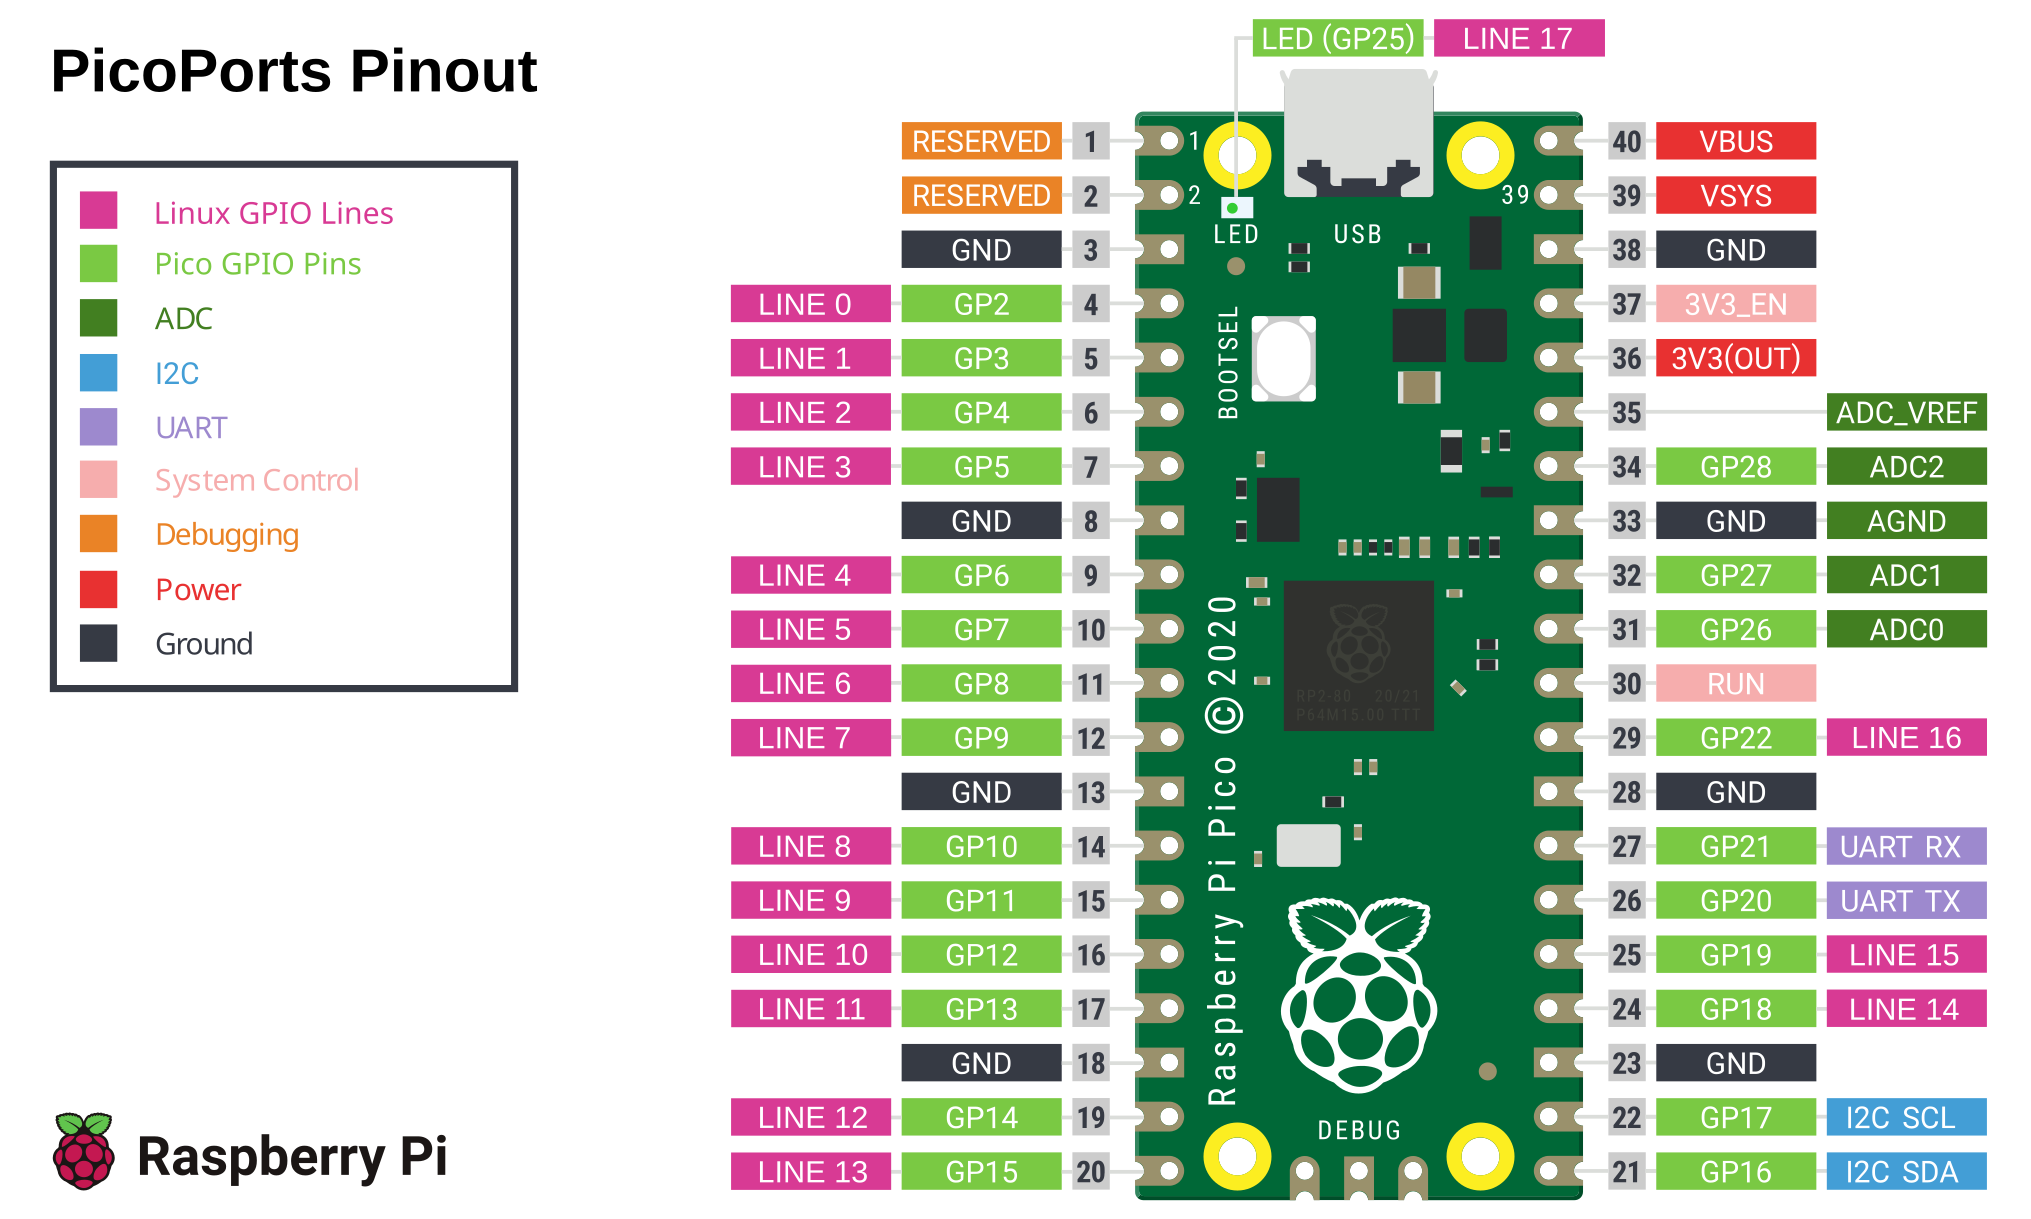
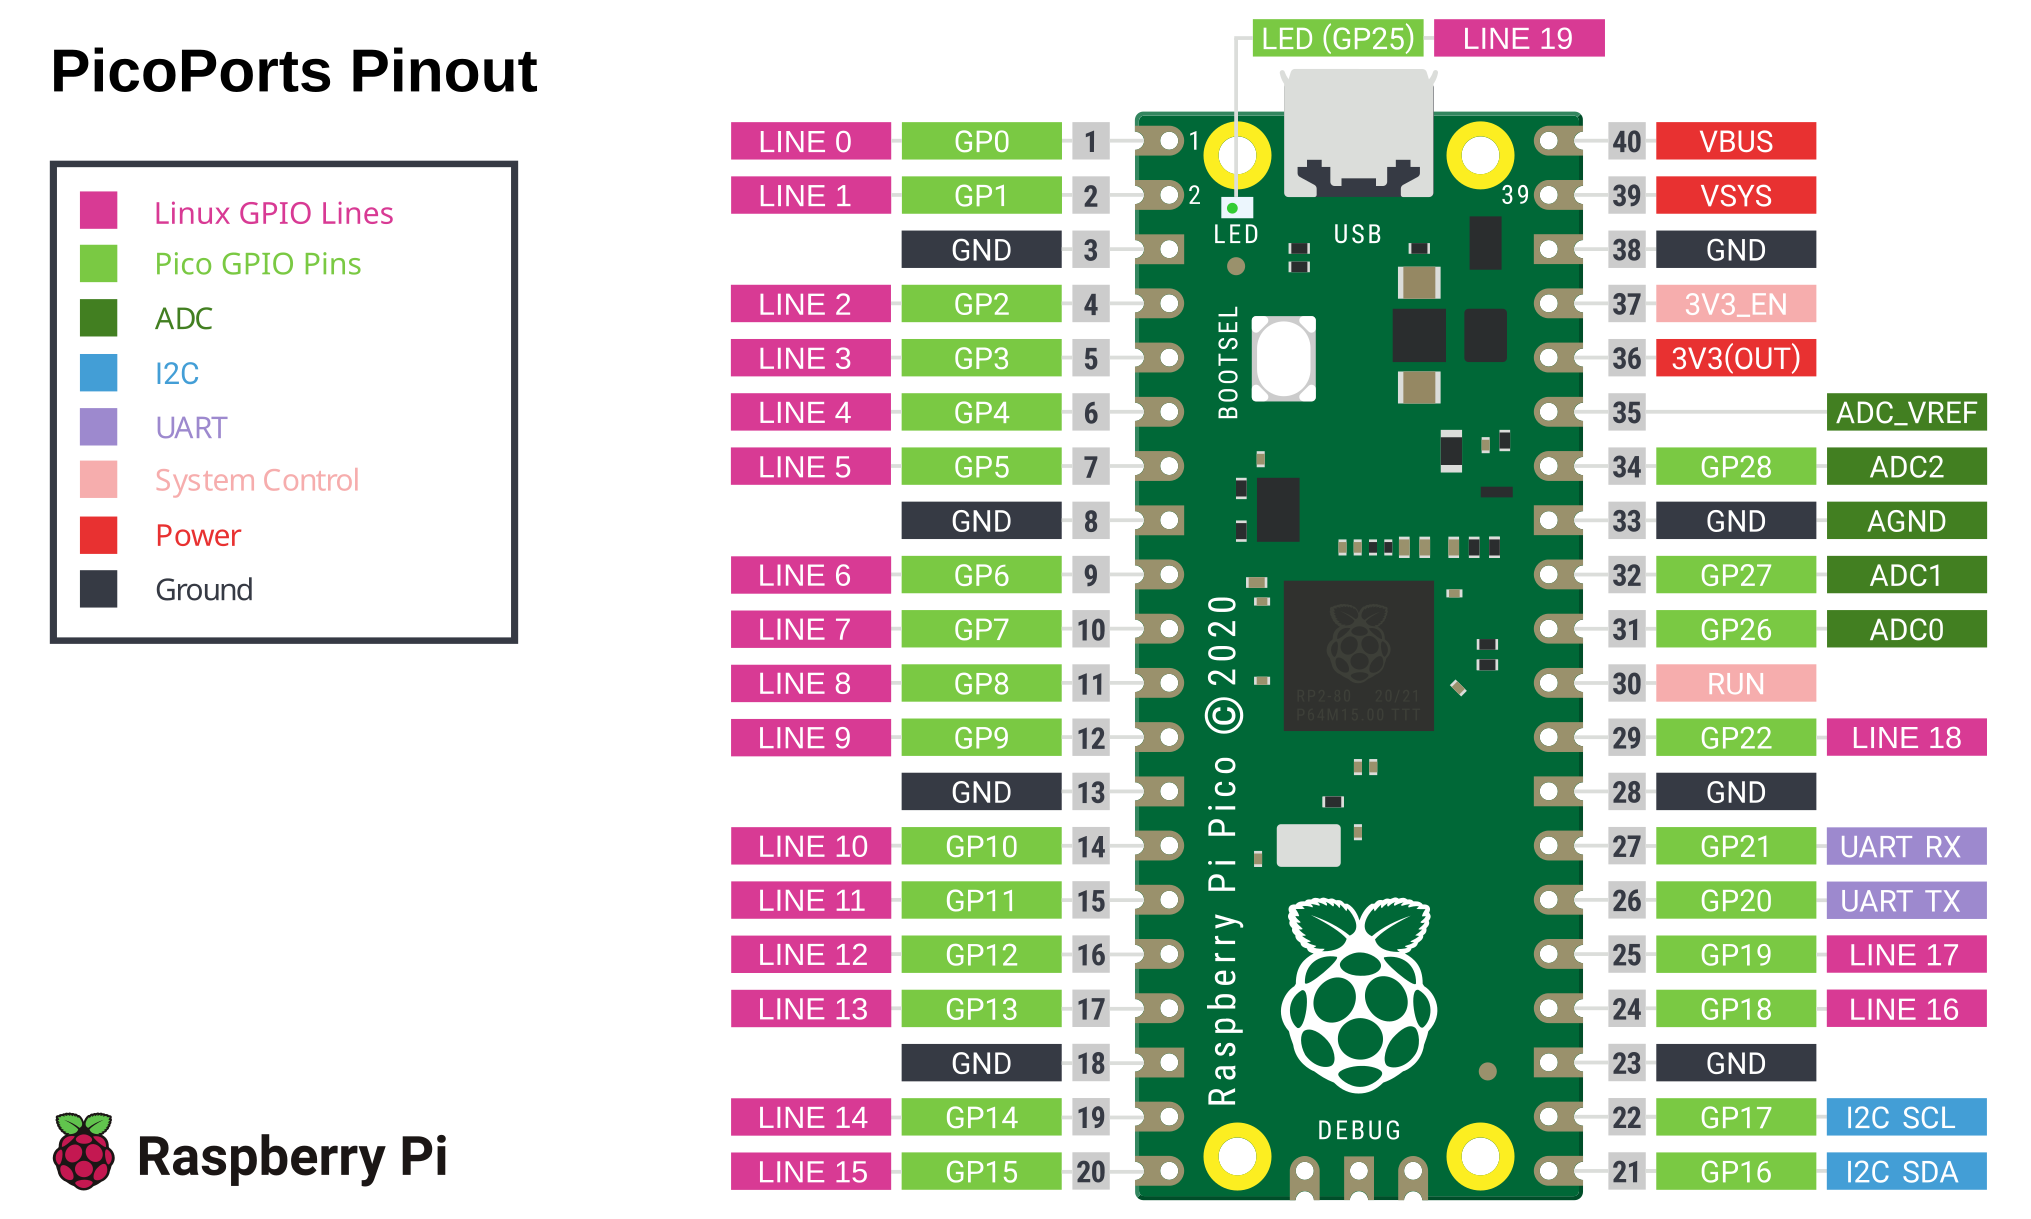
Update documentation

diff --git a/README.md b/README.md
@@ -2,6 +2,12 @@
 
 A USB-to-GPIO/ADC/I2C/UART interface based on the Raspberry Pi Pico 1.
 
+The goal of this project is to be as easy as possible to setup and use. This is achieved by
+
+- drag and drop firmware [installation](#installation)
+- no driver installation on the host
+- works with standard Linux tooling
+
 ## Usage
 
 ### Pinout
@@ -21,13 +27,13 @@ For GPIO access from the command line you can use the tools provided by the pack
 sudo apt install gpiod
 ```
 
-Example: Read GP2
+Example: Read GP0
 
 ```bash
 gpioget gpiochip0 0
 ```
 
-Example: Set GP10 high for 1 second (gpio states persist after gpioset command exits)
+Example: Set GP8 high for 1 second (gpio states persist after gpioset command exits)
 
 ```bash
 gpioset gpiochip0 8=1
@@ -38,17 +44,18 @@ gpioset gpiochip0 8=0
 Special case: Switch on Pico LED (connected to GP25)
 
 ```bash
-gpioset gpiochip0 24=1
+gpioset gpiochip0 19=1
 ```
 
-The gpiochip line numbers depend on the firmware variant:
+There are two firmware variants. On with GPIOs and interfaces and one with GPIOs only. The gpiochip
+line numbers depend on the firmware variant:
 
-| Pico pin GP_              | GP2 | GP3 | GP4 | GP5 | GP6 | GP7 | GP8 | GP9 | GP10 | GP11 | GP12 | GP13 | GP14 | GP15 | GP16 | GP17 | GP18 | GP19 | GP20 | GP21 | GP22 | GP26 | GP27 | GP28 | GP25* |
-|---------------------------|-----|-----|-----|-----|-----|-----|-----|-----|------|------|------|------|------|------|------|------|------|------|------|------|------|------|------|------|-------|
-| gpiochip line             |   0 |   1 |   2 |   3 |   4 |   5 |   6 |   7 |    8 |    9 |   10 |   11 |   12 |   13 |    - |    - |   14 |   15 |    - |    - |   16 |    - |    - |    - |    17 |
-| gpiochip line (GPIO-only) |   0 |   1 |   2 |   3 |   4 |   5 |   6 |   7 |    8 |    9 |   10 |   11 |   12 |   13 |   14 |   15 |   16 |   17 |   18 |   19 |   20 |   21 |   22 |   23 |    24 |
+| Pico pin GP_              | GP0 | GP1 | GP2 | GP3 | GP4 | GP5 | GP6 | GP7 | GP8 | GP9 | GP10 | GP11 | GP12 | GP13 | GP14 | GP15 | GP16 | GP17 | GP18 | GP19 | GP20 | GP21 | GP22 | GP26 | GP27 | GP28 | GP25* |
+|---------------------------|-----|-----|-----|-----|-----|-----|-----|-----|-----|-----|------|------|------|------|------|------|------|------|------|------|------|------|------|------|------|------|-------|
+| gpiochip line             |   0 |   1 |   2 |   3 |   4 |   5 |   6 |   7 |   8 |   9 |   10 |   11 |   12 |   13 |   14 |   15 |    - |    - |   16 |   17 |    - |    - |   18 |    - |    - |    - |    19 |
+| gpiochip line (GPIO-only) |   0 |   1 |   2 |   3 |   4 |   5 |   6 |   7 |   8 |   9 |   10 |   11 |   12 |   13 |   14 |   15 |   16 |   17 |   18 |   19 |   20 |   21 |   22 |   23 |   24 |   25 |    26 |
 
-$*$ GP25 is connected to the LED on the Pico
+*GP25 is connected to the LED
 
 ### ADC
 
@@ -85,12 +92,13 @@ For I2C access from the command line you can use the tools provided by the packa
 sudo apt install i2c-tools
 ```
 
-Example: Find your I2C device number
+Example: Find your I2C device number (look for "dln2-i2c" in the third column)
 
 ```bash
 i2cdetect -l
 # Example output:
-# i2c-1   i2c   dln2-i2c-3-1.1:1.0-0   I2C adapter
+# i2c-0   smbus   SMBus I801 adapter at efa0   SMBus adapter
+# i2c-1   i2c     dln2-i2c-3-1.1:1.0-0         I2C adapter
 ```
 
 Example: Scan for device on I2C bus using read operation* (using I2C device `i2c-1`)
@@ -99,7 +107,7 @@ Example: Scan for device on I2C bus using read operation* (using I2C device `i2c
 i2cdetect -r 1
 ```
 
-$*$ I2C quick write is not supported, so detection has to use the read command (`-r` argument).
+*I2C quick write is not supported, so detection has to use the read command (`-r` option).
 
 Example: Write `0x40 0xff` to the device at I2C address `0x48` (using I2C device `i2c-1`)
 
@@ -113,7 +121,7 @@ Example: Read data from the device at I2C address `0x48` (using I2C device `i2c-
 i2cget 1 0x48
 ```
 
-Example: Attach kernel driver `pcf8591` to a Philips PCF8591 ADC/DAC at I2C address `0x48` (using
+Example: Attach kernel driver `pcf8591` for a Philips PCF8591 ADC/DAC at I2C address `0x48` (using
 I2C device `i2c-1`)
 
 ```bash
@@ -137,7 +145,7 @@ tool)
 tio /dev/ttyACM0
 ```
 
-Note: UART uses 115200 baud (8n1).
+Note: Currently UART uses 115200 baud (8n1) only (TODO).
 
 UART is only available in the full firmware variant (not in the `GPIO-only` variant).
 

diff --git a/TODO.md b/TODO.md
@@ -27,5 +27,7 @@
   - buffers so we can use iio-tools
 - SPI
   - TODO
-- Remove debug UART to free up the pins, or maybe only enable UART logging with `-DDEBUG`?
+- UART
+  - support line coding change, see `tud_cdc_line_coding_cb()`
 - Add support for Pico 2
+- Enable readout of the button state via a GPIO
